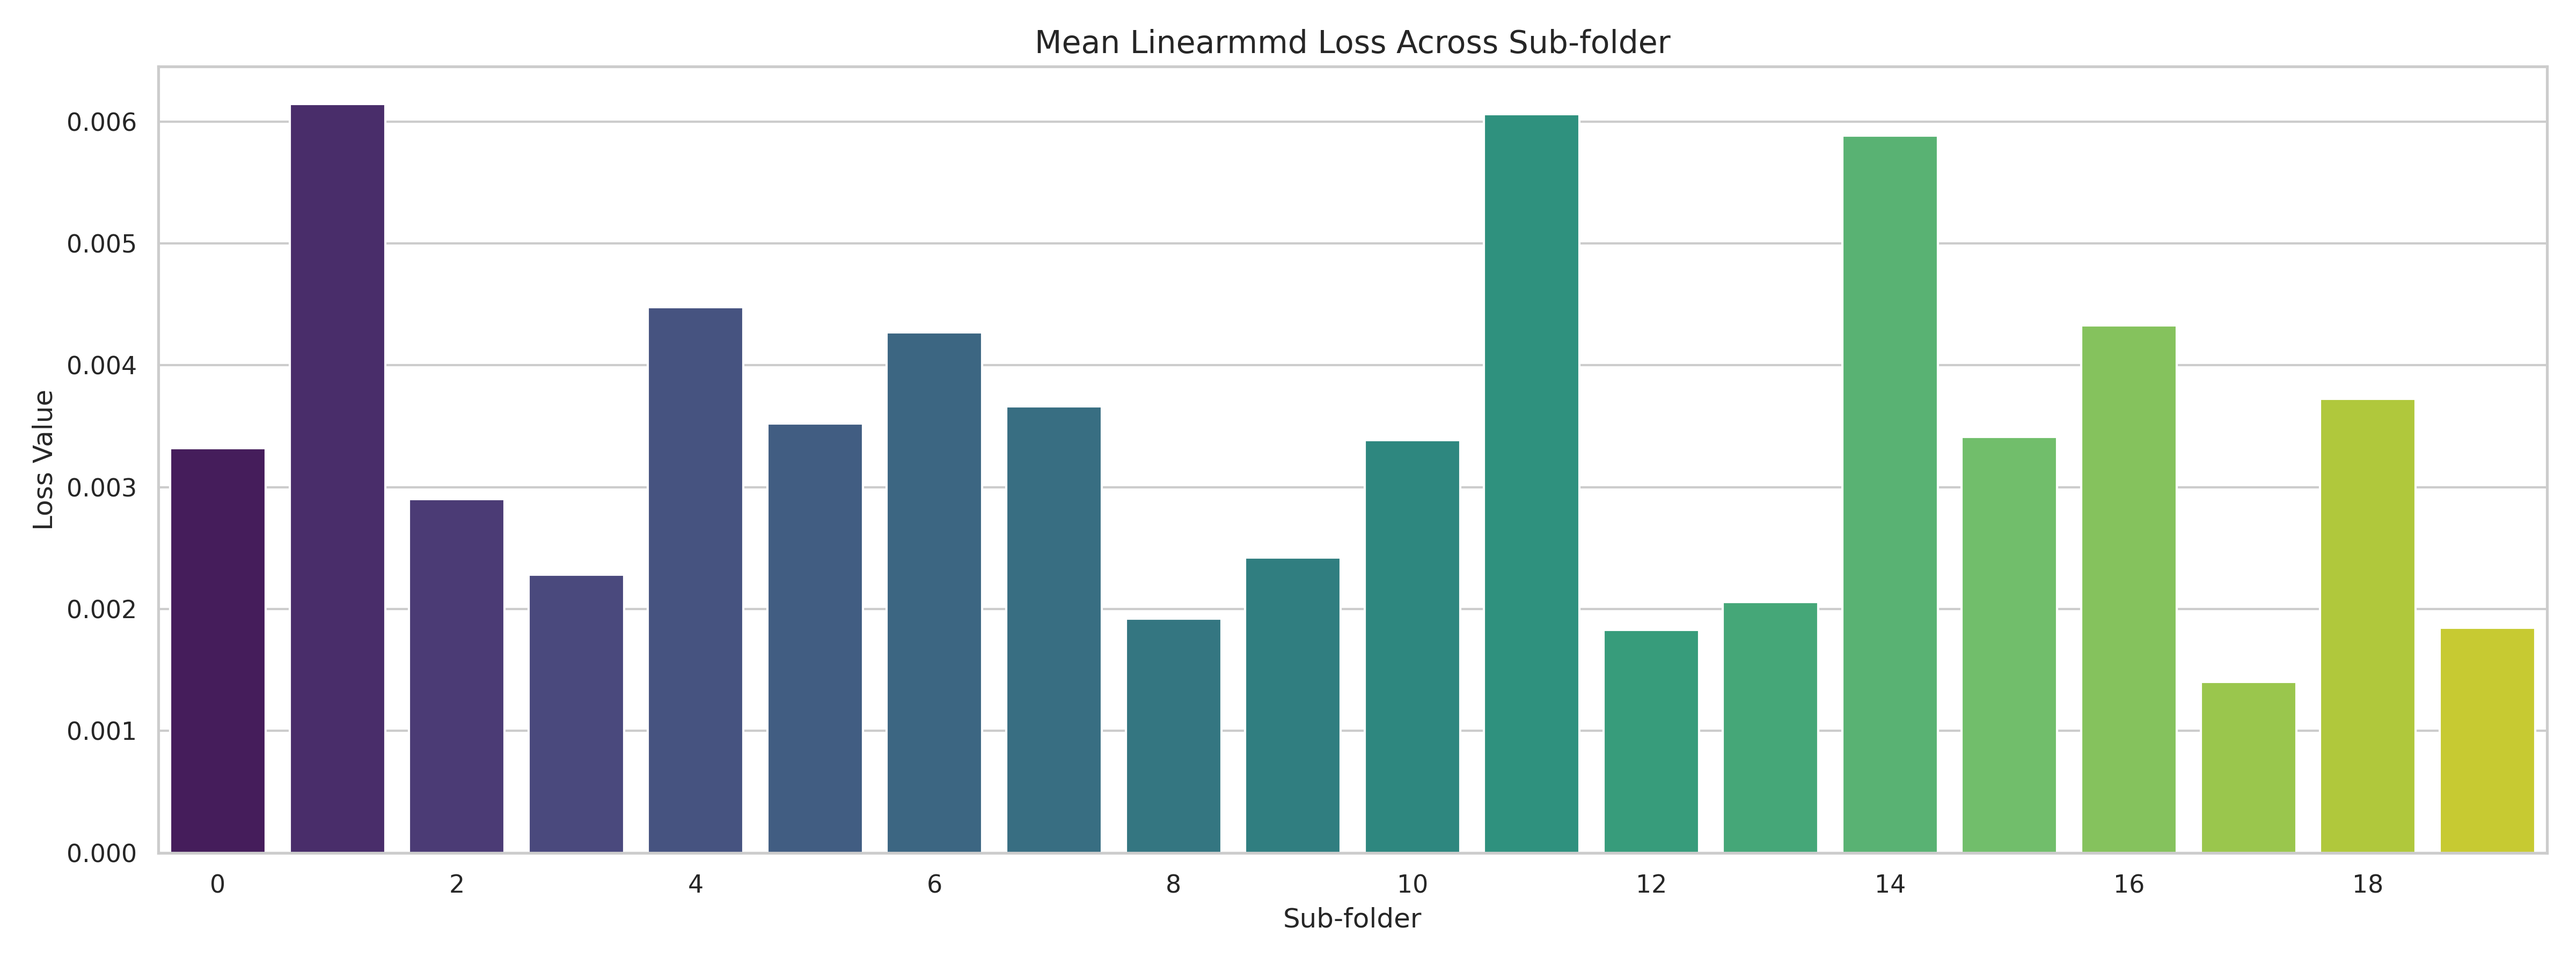
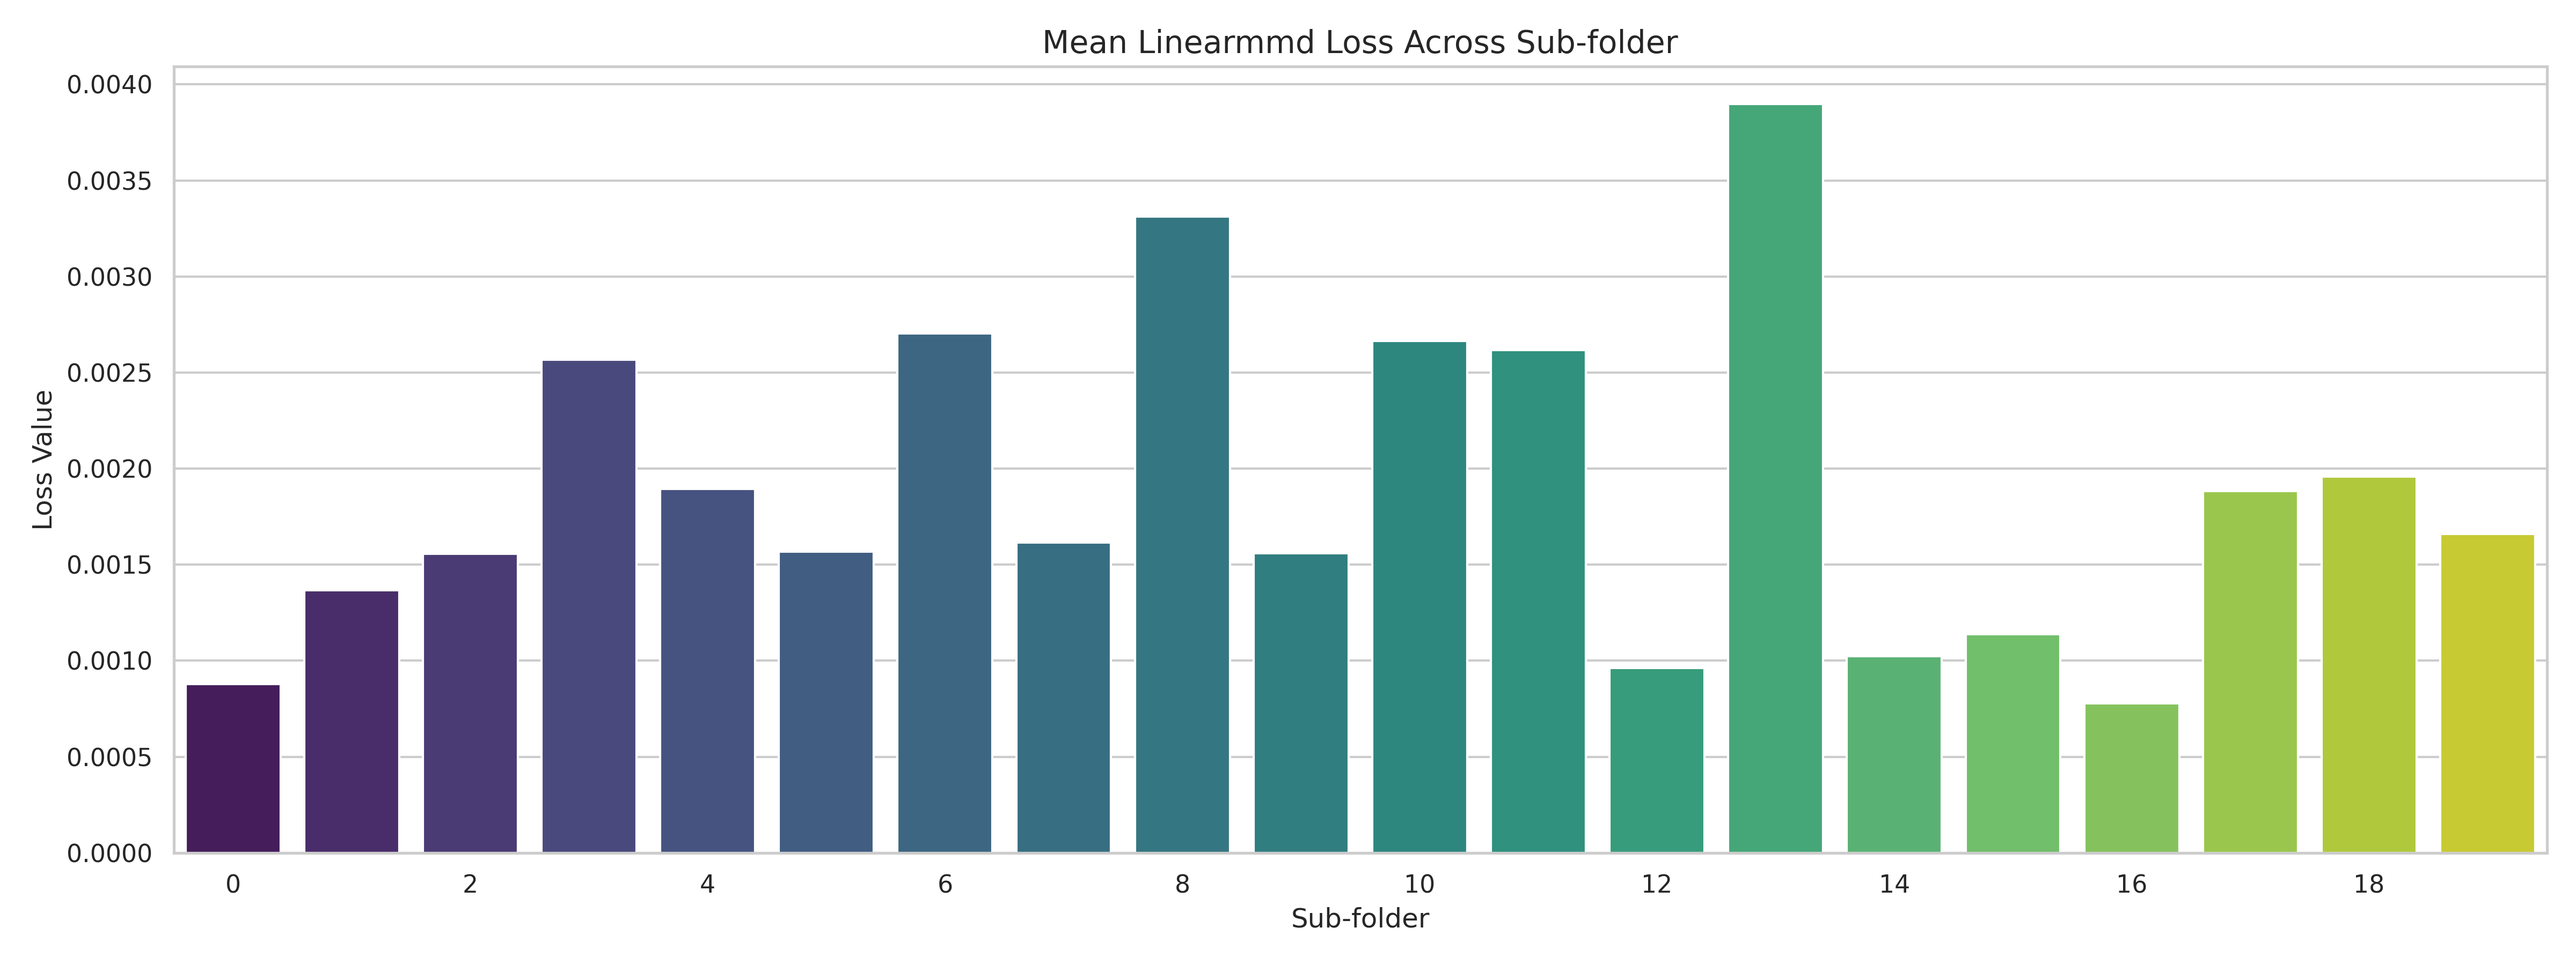
add

diff --git a/gap/gap-visualize.py b/gap/gap-visualize.py
@@ -101,8 +101,7 @@ def visualize_losses(json_file, output_dir="vis", sample_size=20):
         print(f"已保存 {loss_type} 图: {out_path}")
 
 # 示例调用：
-
-visualize_losses("/home/lenovo/data/liujiaji/yolov8/ultralytics-main-8.2.50/gap/c2f_gap.json", output_dir="vis/city_to_foggy")
+# visualize_losses("/home/lenovo/data/liujiaji/yolov8/ultralytics-main-8.2.50/gap/c2f_gap.json", output_dir="vis/city_to_foggy")
 # visualize_losses("/home/lenovo/data/liujiaji/yolov8/ultralytics-main-8.2.50/gap/s2c_gap.json", output_dir="vis/sim10k_to_city")
 # visualize_losses("/home/lenovo/data/liujiaji/yolov8/ultralytics-main-8.2.50/gap/v2c_gap.json", output_dir="vis/voc_to_clipart1k")
-# visualize_losses("/home/lenovo/data/liujiaji/yolov8/ultralytics-main-8.2.50/gap/pr2pu_gap.json", output_dir="vis/privatepower_to_publicpower")
+visualize_losses("/home/lenovo/data/liujiaji/yolov8/ultralytics-main-8.2.50/gap/pr2pu_gap.json", output_dir="vis/privatepower_to_publicpower")
